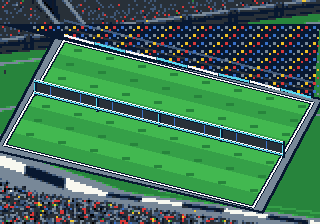
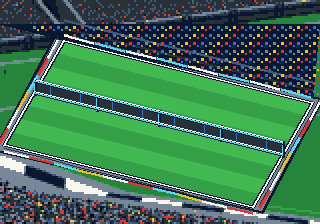
Add FIFA-94-style advertising hoardings around the pitch
- Segmented colour ad boards now ring the near and side touchlines,
  following the dimetric projection - the classic FIFA International
  Soccer broadcast-stadium framing the user asked for as reference
- Dropped the sparse checker floor texture to stay within the 592-tile
  court budget (new count 589), so no VRAM re-budget / no corruption risk
- Verified in-emulator: court renders clean with the hoardings, no bleed

diff --git a/MicroRetroDodgeball/tools/build_stadium_tiles.py b/MicroRetroDodgeball/tools/build_stadium_tiles.py
@@ -110,13 +110,25 @@ def prepare_image():
             point(next_depth, True), point(next_depth)
         ], fill=colour)
 
-    # Sparse checker highlights add 16-bit texture without noisying the play.
-    for depth in range(31, 141, 16):
-        left = edge_x(depth)
-        right = edge_x(depth, True)
-        for x in range(left + 13, right - 8, 32):
-            y = depth + x // 4
-            draw.rectangle((x, y, x + 7, y + 2), fill=PALETTE[3])
+    # FIFA-94-style perimeter advertising hoardings. Segmented colour boards
+    # ring the pitch just outside the touchlines, following the same dimetric
+    # projection, framing the court like a broadcast football stadium.
+    def hoardings(p0, p1, outward, segs, thickness):
+        ad_cols = (PALETTE[15], PALETTE[9], PALETTE[12], PALETTE[6])
+        ox, oy = outward
+        for i in range(segs):
+            t0, t1 = i / segs, (i + 1) / segs
+            x0 = round(p0[0] + (p1[0] - p0[0]) * t0) + ox
+            y0 = round(p0[1] + (p1[1] - p0[1]) * t0) + oy
+            x1 = round(p0[0] + (p1[0] - p0[0]) * t1) + ox
+            y1 = round(p0[1] + (p1[1] - p0[1]) * t1) + oy
+            draw.line((x0, y0, x1, y1), fill=ad_cols[i & 3], width=thickness)
+            draw.line((x0, y0 - thickness, x1, y1 - thickness),
+                      fill=PALETTE[14], width=1)
+
+    hoardings(near_l, near_r, (0, 6), 10, 3)     # near touchline, closest to camera
+    hoardings(far_l, near_l, (-7, 0), 6, 3)      # left touchline
+    hoardings(far_r, near_r, (7, 0), 6, 3)       # right touchline
 
     # Strong double-edged boundary, exactly on the movement polygon.
     boundary = [far_l, far_r, near_r, near_l, far_l]
